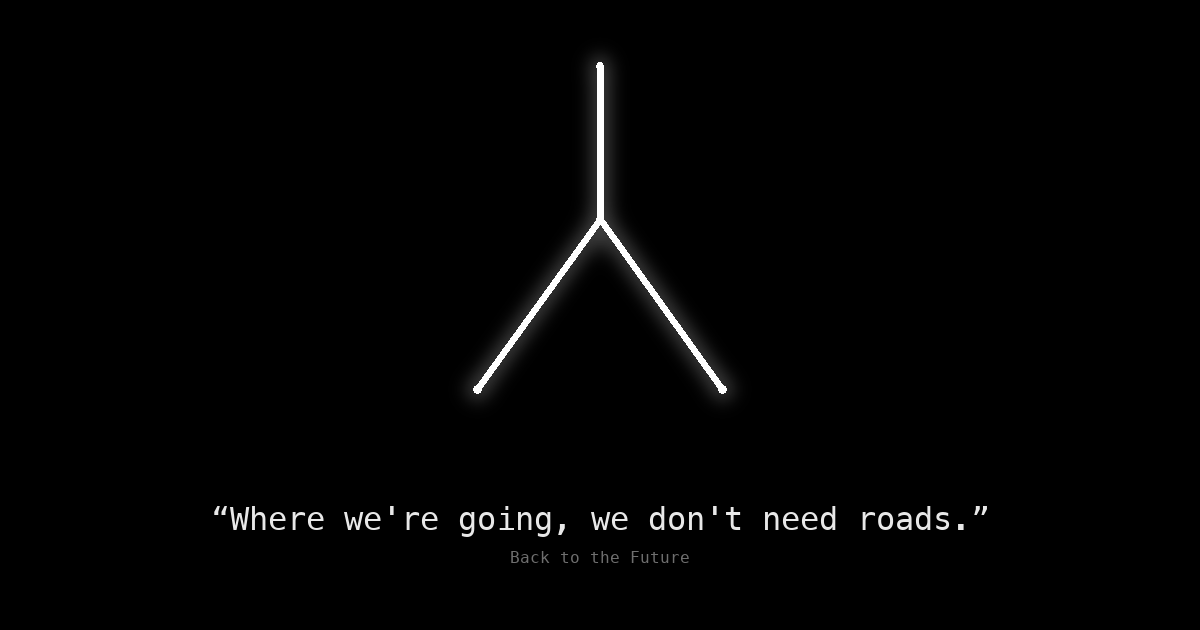
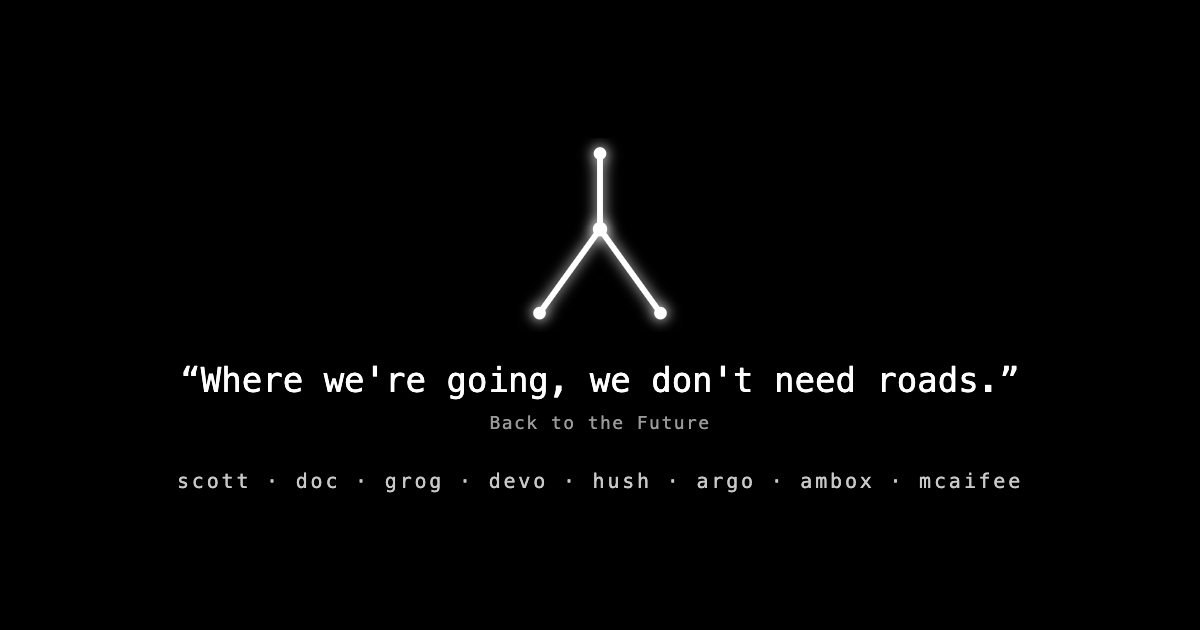
Update the Open Graph card for the current kit
The share image keeps the quote and now names scott, doc, grog, devo, hush, argo, ambox, and mcaifee.

diff --git a/index.html b/index.html
@@ -9,17 +9,18 @@
   <link rel="apple-touch-icon" href="apple-touch-icon.png">
   <meta name="description" content="Fluxkit is a toolkit for developers: scott, doc, grog, devo, hush, argo, ambox, and mcaifee.">
   <meta property="og:title" content="Fluxkit">
-  <meta property="og:description" content="Where we're going, we don't need roads.">
+  <meta property="og:description" content="Fluxkit is a toolkit for developers: scott, doc, grog, devo, hush, argo, ambox, and mcaifee.">
   <meta property="og:type" content="website">
   <meta property="og:url" content="https://meaningtech.github.io/fluxkit/">
-  <meta property="og:image" content="https://meaningtech.github.io/fluxkit/og.png">
+  <meta property="og:image" content="https://meaningtech.github.io/fluxkit/og.png?v=8">
   <meta property="og:image:width" content="1200">
   <meta property="og:image:height" content="630">
-  <meta property="og:image:alt" content="White flux mark on black, with the line: Where we're going, we don't need roads.">
+  <meta property="og:image:alt" content="White flux mark on black, the line Where we're going, we don't need roads, and scott, doc, grog, devo, hush, argo, ambox, mcaifee.">
   <meta name="twitter:card" content="summary_large_image">
   <meta name="twitter:title" content="Fluxkit">
-  <meta name="twitter:description" content="Where we're going, we don't need roads.">
-  <meta name="twitter:image" content="https://meaningtech.github.io/fluxkit/og.png">
+  <meta name="twitter:description" content="Fluxkit is a toolkit for developers: scott, doc, grog, devo, hush, argo, ambox, and mcaifee.">
+  <meta name="twitter:image" content="https://meaningtech.github.io/fluxkit/og.png?v=8">
+  <meta name="twitter:image:alt" content="White flux mark on black, the line Where we're going, we don't need roads, and scott, doc, grog, devo, hush, argo, ambox, mcaifee.">
   <style>
     * { box-sizing: border-box; }
     html, body { margin: 0; min-height: 100%; background: #000; color: #e8e8e8; }

diff --git a/DESIGN.md b/DESIGN.md
@@ -44,6 +44,6 @@ The column is at most 40rem, centered, with the same stack at every width. At 14
 
 ## Open Graph
 
-`og.png` is 1200×630, black. The same mark, stem up, in white. Under it, the line “Where we're going, we don't need roads.” and the attribution Back to the Future. The page points `og:image` and `twitter:image` at `https://meaningtech.github.io/fluxkit/og.png`.
+`og.png` is 1200×630, black. The same mark, stem up, in white. Under it, the line “Where we're going, we don't need roads.”, the attribution Back to the Future, and the current tool names in order: scott, doc, grog, devo, hush, argo, ambox, mcaifee. When the kit changes, redraw this card and bump the `?v=` on `og:image` and `twitter:image`. The description on those tags is the same sentence as `meta name="description"`.
 
 The favicon is the same mark on black: `favicon.svg` for current browsers, `favicon.ico` at 16, 32, and 48, and `apple-touch-icon.png` at 180.
